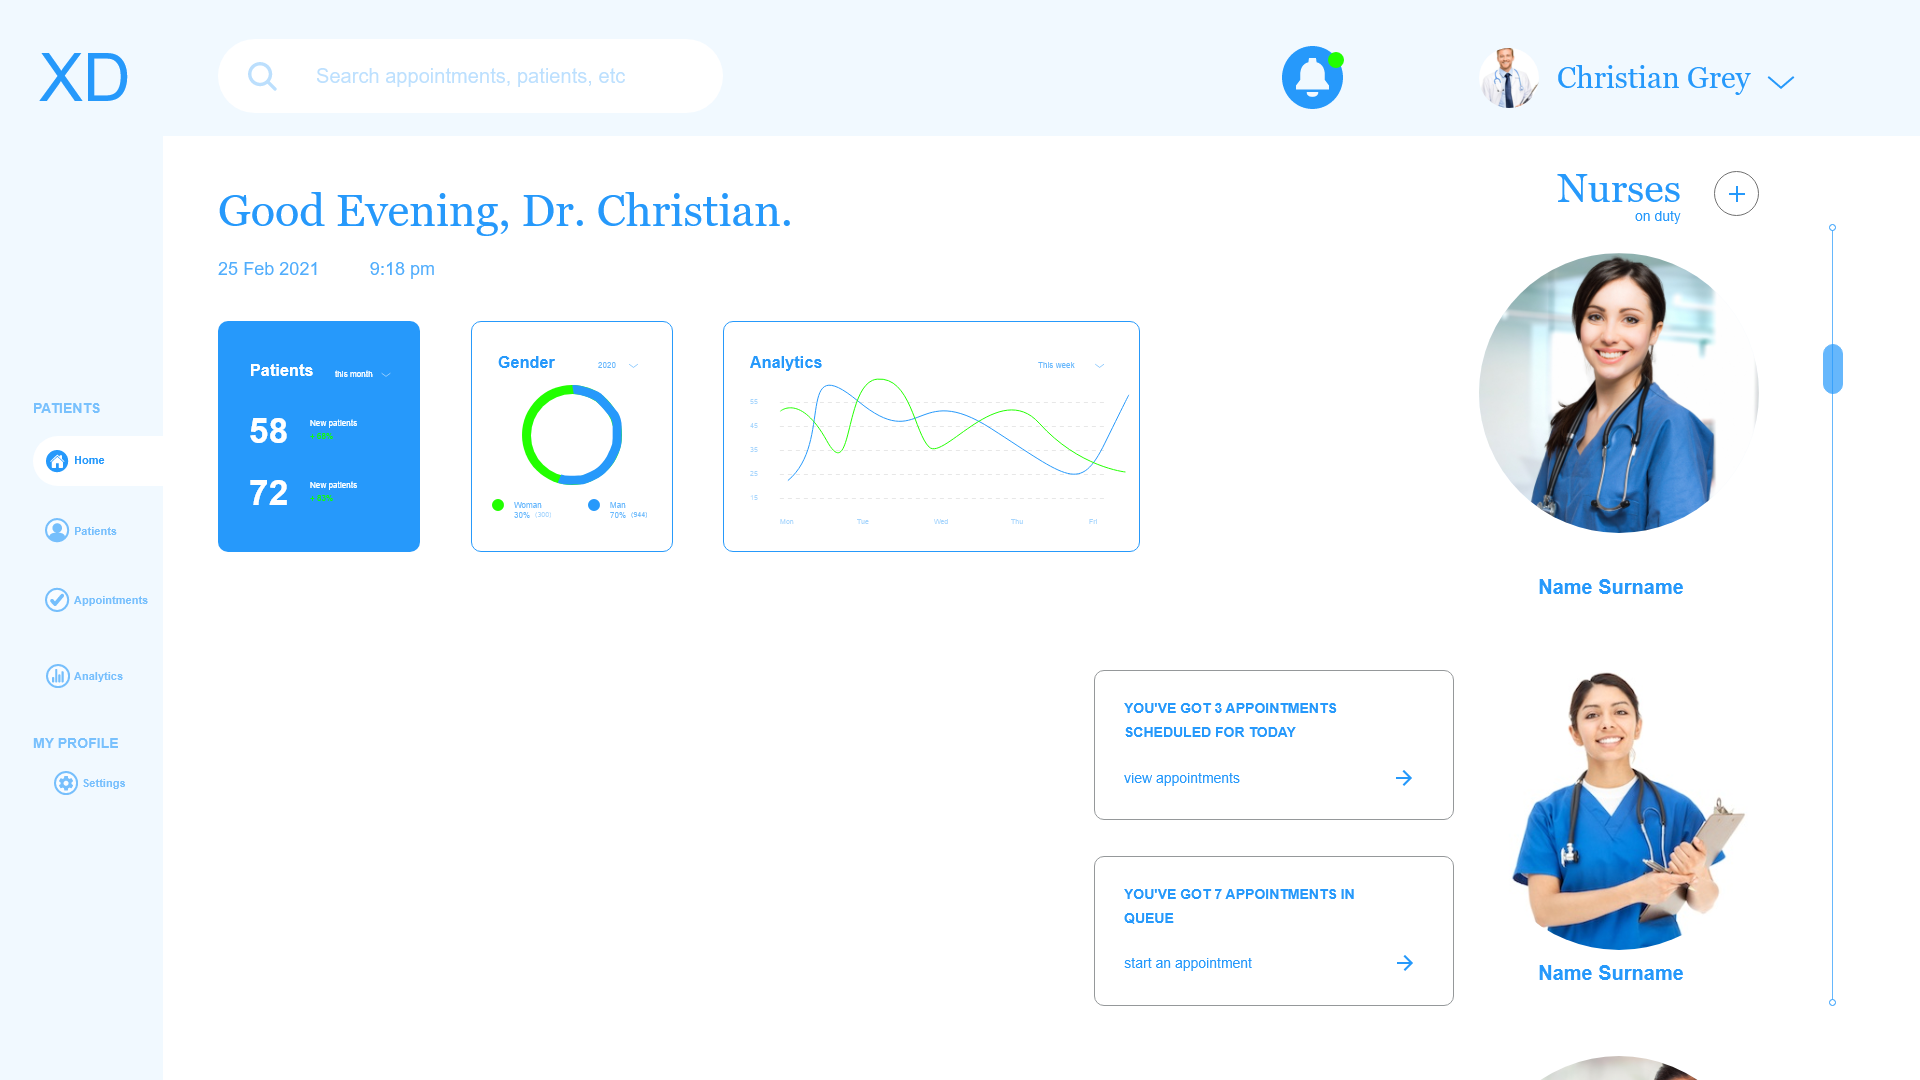
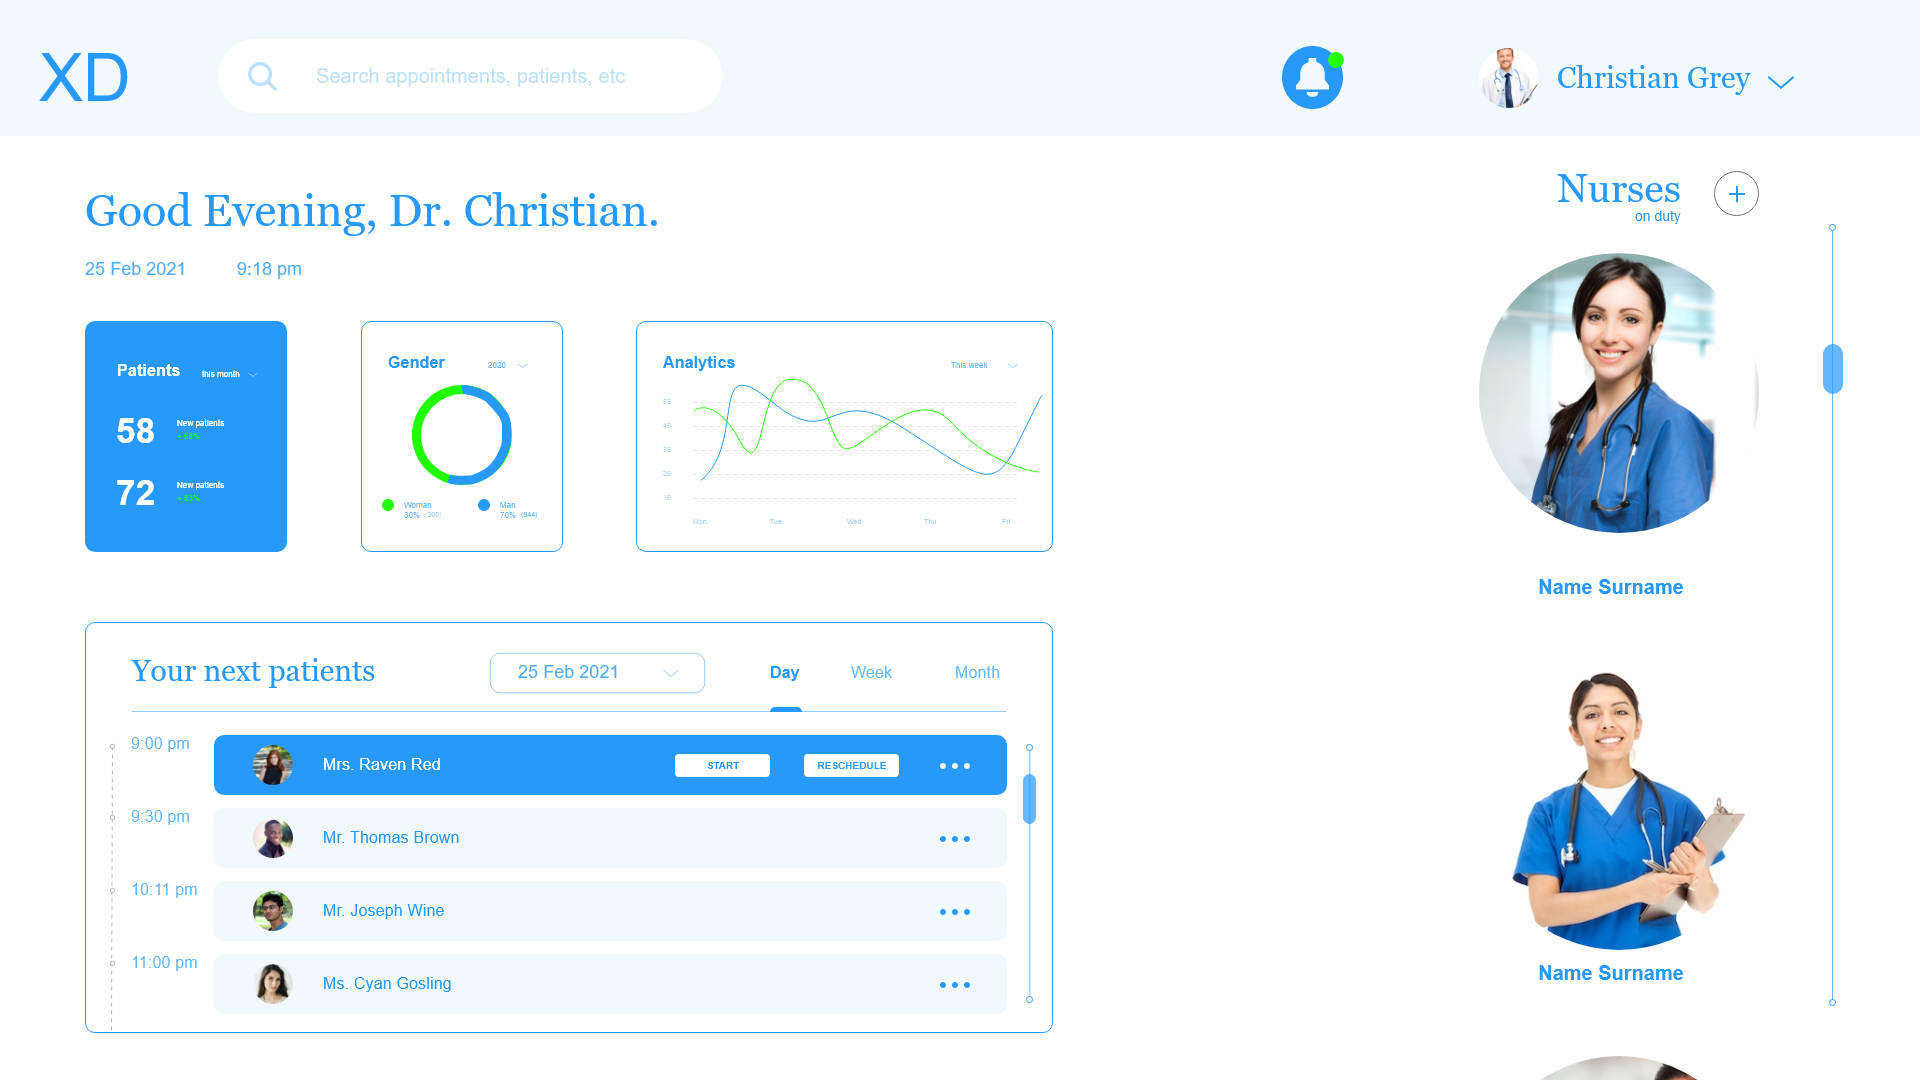
Uche (#3)
* Added nothing

* Update file-that-does-nothing

* added UI Mockups and removed nothing

* added UI Mockups

* updated UI Mockups

* updated UI Mockups

* updated UI Mockups

* made Changes

* Update readme.md

* Update readme.md

Added Another Change

* Added Python Data Generation Scripts

* Update sql-query.json

Edited the connection details

* Added readme and requirements

* Updated readme

* Edited json files

* Update README.md

* Updated sql-query.json

Added queries to create the various tables in the database.

diff --git a/Python-Data-Generation-Scripts/generator.py b/Python-Data-Generation-Scripts/generator.py
@@ -1,0 +1,1 @@
+import sqlalchemy

diff --git a/Python-Data-Generation-Scripts/README.md b/Python-Data-Generation-Scripts/README.md
@@ -1,0 +1,26 @@
+# Python Data Generation Scripts
+This python script will automatically generate data for the hospital database.
+
+## Requirement
+
+- Python 3.xx or Python 2.xx
+- sqlalchemy
+
+Install requirements
+```bash
+$ pip install -r requirements.txt
+```
+Add `connection.json` to the same directory as `generator.py`
+```json
+{
+    "host": "localhost",
+    "user": "root",
+    "password": "p@$$W0rD",
+    "database": "hospital"
+}
+```
+## Usage 
+Run `generator.py`
+```bash
+$ python generator.py
+```
